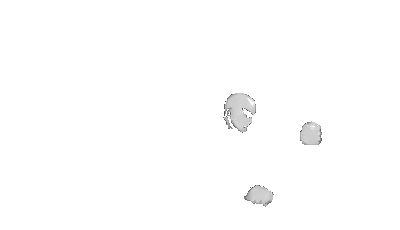
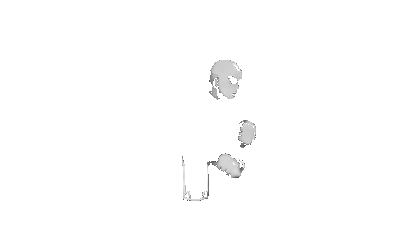
Battle sprites: Soldier shield strike (user reference) for both sexes
The strike cells (shield held up, body hunched behind it, diagonal downward slash from
under the shield) are used for sword+shield attacks; longsword-only keeps the thrust.

Claude-Session: https://claude.ai/code/session_01M8ejkLTav7LEMdtajuWjkN

diff --git a/art_source/new_art/battle/process_battle.py b/art_source/new_art/battle/process_battle.py
@@ -265,7 +265,8 @@ def strip_drawn_shield(a, on, p):
 
 # fix sheets: (sex, stance, state, tag, file) -> extra state '<state>_<tag>'. 'shield' = the 1h attack with the shield
 # arm braced at the chest; loadouts with a shield use it, the others keep the plain attack.
-EXTRA = {}   # e.g. {'soldier': [('m', '1h', 'attack', 'shield', '<fix sheet>.png')]}; shield-wall try (source/soldier_m_sheet_shieldwall.png) rejected 2026-11-20
+EXTRA = {'soldier': [('m', '1h', 'attack', 'shield', 'soldier_m_sheet_strike.png'),
+                      ('f', '1h', 'attack', 'shield', 'soldier_f_sheet_strike.png')]}   # shield strike, user reference 2026-11-20
 
 
 def process(cls):
